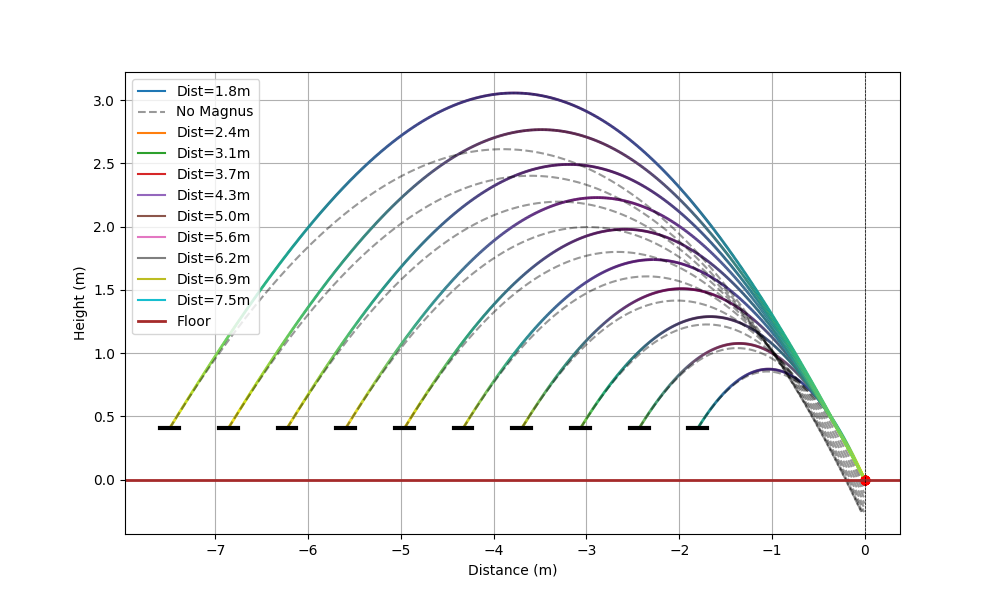
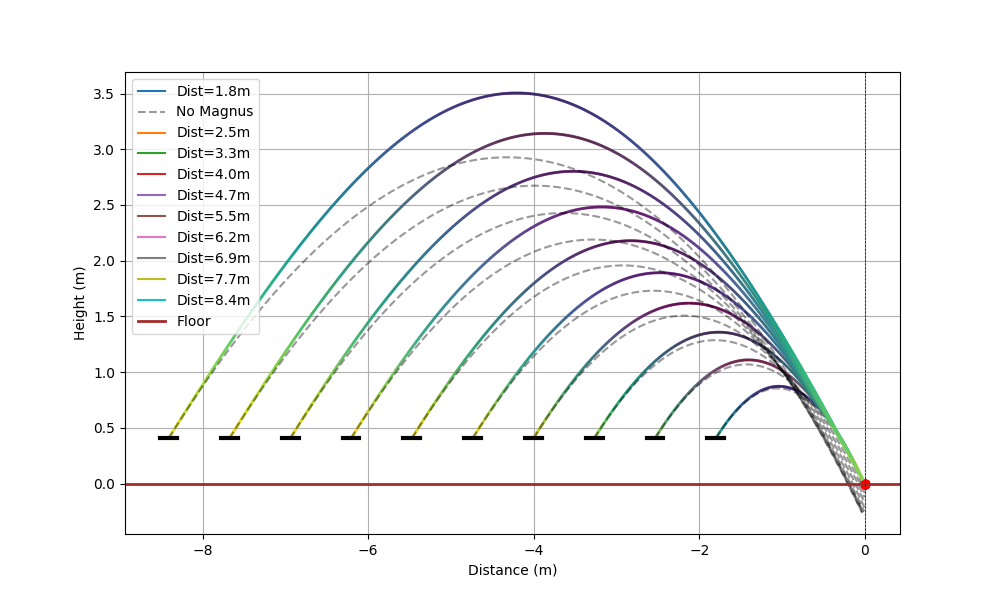
Adjust lob calculation slightly

diff --git a/misc/shotSim/shotSimulator.py b/misc/shotSim/shotSimulator.py
@@ -311,7 +311,7 @@ def hub_margin_cost(target_height, target_distance, xs, ys):
     return 2000. * entrance_height_err
 
 hub_distances = np.linspace(1.8, 7.0, 50) # target distances in meters
-lob_distances = np.linspace(1.8, 8.0, 50) # target distances in meters
+lob_distances = np.linspace(1.8, 9.0, 50) # target distances in meters
 
 simulate_and_save('hub', '../../src/main/deploy/hub_shots.csv', hub_entrance_height_m, hub_distances, plot_hub, hub_margin_cost)
 simulate_and_save('lob', '../../src/main/deploy/lob_shots.csv', 0., lob_distances)
